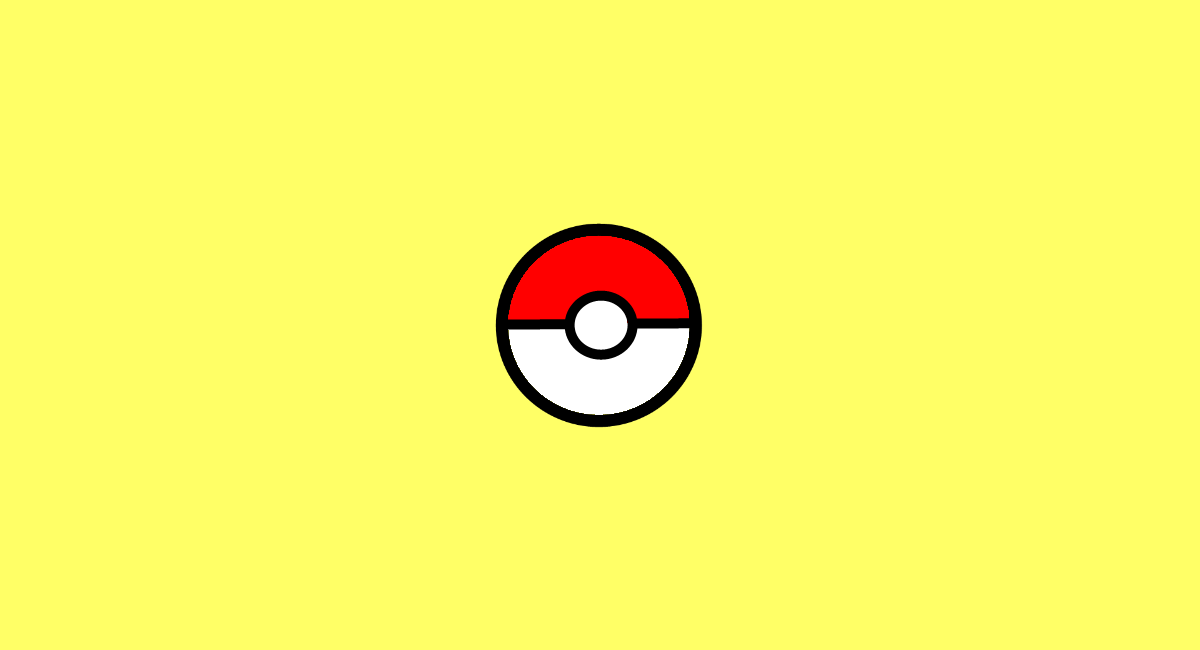
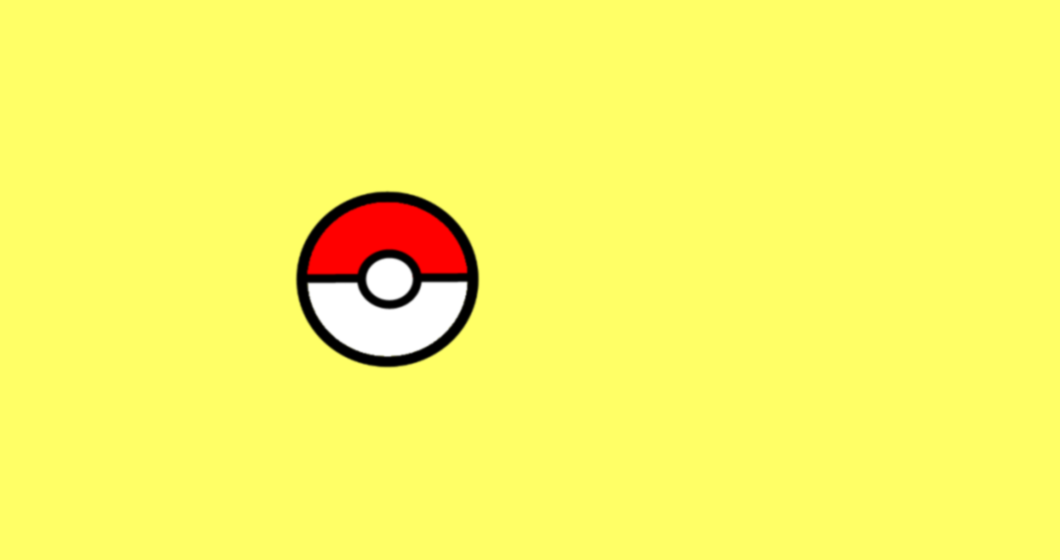
Gui changes

Changed region(s): [[0.2802, 0.3339, 0.5915, 0.6679]]

diff --git a/Gui.py b/Gui.py
@@ -17,7 +17,7 @@ import random
 # A drawable panel that contains the Playing Area
 class GamePanel(wx.ScrolledWindow):
 	def __init__(self, parent, id, size=wx.DefaultSize):
-		wx.ScrolledWindow.__init__(self, parent, id, (0, 0), size=(1200, 650), style=wx.SUNKEN_BORDER)
+		wx.ScrolledWindow.__init__(self, parent, id, (0, 0), size=(1033, 560), style=wx.SUNKEN_BORDER)
 		self.SetDoubleBuffered(True)
 
 		self.hitradius = 5			# How many pixels you can be "off" when trying to click on something
@@ -52,7 +52,7 @@ class GamePanel(wx.ScrolledWindow):
 	def setImage(self, card):
 		name = card.name.replace(' ', '').replace('.', '')
 		image = wx.Image('images/Pokecards/' + name + '.jpg', wx.BITMAP_TYPE_ANY)
-		image = image.Scale(122, 175, wx.IMAGE_QUALITY_HIGH)
+		image = image.Scale(116, 165, wx.IMAGE_QUALITY_HIGH)
 		card.bitmap = image.ConvertToBitmap()
 
 	# Sets the bitmap for the backside of a pokemon card
@@ -92,14 +92,14 @@ class GamePanel(wx.ScrolledWindow):
 
 		# Right click is currently only used for testing purposes
 		elif event.RightDown():
-			#x,y = self.ConvertEventCoords(event)
-			#l = self.pdc.FindObjects(x, y, self.hitradius)
-			#if l:
-			#	self.pdc.SetIdGreyedOut(l[0], not self.pdc.GetIdGreyedOut(l[0]))
-			#	r = self.pdc.GetIdBounds(l[0])
-			#	r.Inflate(4, 4)
-			#	self.OffsetRect(r)
-			#	self.RefreshRect(r, False)
+			x,y = self.convertEventCoords(event)
+			l = self.pdc.FindObjects(x, y, self.hitradius)
+			if l:
+				self.pdc.SetIdGreyedOut(l[0], not self.pdc.GetIdGreyedOut(l[0]))
+				r = self.pdc.GetIdBounds(l[0])
+				r.Inflate(4, 4)
+				self.offsetRect(r)
+				self.RefreshRect(r, False)
 			
 			dx,dy = 100, 100
 			if self.lastdragid != -1:
@@ -136,15 +136,15 @@ class GamePanel(wx.ScrolledWindow):
 				dx = event.GetX()
 				dy = event.GetY()
 
-				if self.dropArea(dx, dy) and self.lastdragid != self.dragid:
+				if self.inPlayerChosenArea(dx, dy) and self.lastdragid != self.dragid:
 					if self.lastdragid != -1:
-						tx = self.origpos[self.lastdragid][0] - 321
-						ty = self.origpos[self.lastdragid][1] - 236
+						tx = self.origpos[self.lastdragid][0] - 119
+						ty = self.origpos[self.lastdragid][1] - 195
 						self.moveItem(self.lastdragid, tx, ty)
-					x = self.startpos[0] - self.lastpos[0] - self.origpos[self.dragid][0] + 321
-					y = self.startpos[1] - self.lastpos[1] - self.origpos[self.dragid][1] + 236
+					x = self.startpos[0] - self.lastpos[0] - self.origpos[self.dragid][0] + 119
+					y = self.startpos[1] - self.lastpos[1] - self.origpos[self.dragid][1] + 195
 					self.GetParent().attackPanel.setLabels(self.cards[self.dragid])
-					self.GetParent().statusPanel.setPlayerPokemonInfo(self.cards[self.dragid])
+#					self.GetParent().statusPanel.setPlayerPokemonInfo(self.cards[self.dragid])
 					#self.chosenID = self.dragid
 					self.lastdragid = self.dragid
 				else:
@@ -183,8 +183,8 @@ class GamePanel(wx.ScrolledWindow):
 		while(loopCPU < 11):
 			time.sleep(0.01)
 			if forward:
-				dx = random.randint(1, 31) - 15
-				dy = random.randint(1, 31) - 15
+				dx = random.randint(1, 41) - 20
+				dy = random.randint(1, 21) - 10
 
 				self.anim.append([dx, dy])
 
@@ -202,8 +202,8 @@ class GamePanel(wx.ScrolledWindow):
 
 				loopCPU += 1
 
-	def dropArea(self, dx, dy):
-		return  (300 < dx and dx < 465) and (435 > dy and dy > 215)
+	def inPlayerChosenArea(self, dx, dy):
+		return  (110 < dx and dx < 245) and (376 > dy and dy > 182)
 
 	# Updates the playing area
 	def onPaint(self, event):
@@ -213,6 +213,13 @@ class GamePanel(wx.ScrolledWindow):
 		rgn = self.GetUpdateRegion()
 		r = rgn.GetBox()
 		self.pdc.DrawToDCClipped(dc, r)
+
+	def drawItem(self, dc, id, bitmap, x, y, w, h):
+		dc.DrawBitmap(bitmap, x, y, True)
+		dc.SetIdBounds(id, wx.Rect(x, y, w, h))
+		self.movable[id] = True
+		self.origpos[id] = [x, y]
+		self.objids.append(id)
 
 	# Draws the inital playing area
 	def doDrawing(self, dc, player, CPU):
@@ -224,12 +231,15 @@ class GamePanel(wx.ScrolledWindow):
 		dc.SetPen(pen)
 		dc.SetBrush(brush)
 
-		player1pokePanel = wx.Rect(190, 445, 805, 195)
-		player2pokePanel = wx.Rect(190, 5, 805, 195)
-		player1invPanel = wx.Rect(15, 70, 160, 570)
-		player2invPanel = wx.Rect(1010, 5, 160, 570)
-		player1chosenPanel = wx.Rect(300, 215, 165, 220)
-		player2chosenPanel = wx.Rect(730, 215, 165, 220)
+		player1pokePanel = wx.Rect(3, 380, 775, 175)
+		player2pokePanel = wx.Rect(3, 3, 775, 175)
+		player1invPanel = wx.Rect(782, 280, 135, 275)
+		player2invPanel = wx.Rect(782, 3, 135, 275)
+		player1chosenPanel = wx.Rect(110, 182, 135, 193)
+		player2chosenPanel = wx.Rect(535, 182, 135, 193)
+		inventoryDeckPanel = wx.Rect(922, 3, 135, 181)
+		cardDeckPanel = wx.Rect(922, 188, 135, 181)
+		graveyardPanel = wx.Rect(922, 373, 135, 181)
 		dc.DrawRoundedRectangleRect(player1pokePanel, 10)
 		dc.DrawRoundedRectangleRect(player1invPanel, 10)
 		dc.DrawRoundedRectangleRect(player1chosenPanel, 10)
@@ -238,60 +248,55 @@ class GamePanel(wx.ScrolledWindow):
 		dc.DrawRoundedRectangleRect(player2pokePanel, 10)
 		dc.DrawRoundedRectangleRect(player2invPanel, 10)
 		dc.DrawRoundedRectangleRect(player2chosenPanel, 10)
+		dc.DrawRoundedRectangleRect(inventoryDeckPanel, 10)
+		dc.DrawRoundedRectangleRect(cardDeckPanel, 10)
+		dc.DrawRoundedRectangleRect(graveyardPanel, 10)
+
+#		dc.EndDrawing()
 
 		w, h = player.deck.cards[0].bitmap.GetSize()
 		for i in range(0, 6):
 			id = wx.NewId()
 			dc.SetId(id)
-			x = 195 + i * 134
-			y = 452
-			dc.DrawBitmap(player.deck.cards[i].bitmap, x, y, True)
-			dc.SetIdBounds(id, wx.Rect(x, y, w, h))
+			x = 13 + i * 127
+			y = 384
 			self.movable[id] = True
-			self.origpos[id] = [x, y]
+			self.drawItem(dc, id, player.deck.cards[i].bitmap, x, y, w, h)
 			self.cards[id] = player.deck.cards[i]
-			self.objids.append(id)
 
+		dc.EndDrawing()
+'''
 		for i in range(1, 6):
 			id = wx.NewId()
 			dc.SetId(id)
 			x = 195 + i * 134
 			y = 15
-			dc.DrawBitmap(CPU.deck.cards[i].bitmap, x, y, True)
-			dc.SetIdBounds(id, wx.Rect(x, y, w, h))
 			self.movable[id] = False
-			self.origpos[id] = [x, y]
+			self.drawItem(dc, id, CPU.deck.cards[i].bitmap, x, y, w, h)
 			self.cards[id] = CPU.deck.cards[i]
-			self.objids.append(id)
 
 			# Draw the backside of a card over the CPU card 
 			id = id * 2
 			dc.SetId(id)
-			dc.DrawBitmap(self.backsideBmp, x, y, True)
-			dc.SetIdBounds(id, wx.Rect(x, y, w, h))
 			self.movable[id] = False
-			#self.origpos[id] = [x, y]
-			self.objids.append(id)
+			self.drawItem(dc, id, self.backsideBmp, x, y, w, h)
 
 		id = wx.NewId()
 		dc.SetId(id)
 		x = 750
 		y = 236
-		dc.DrawBitmap(CPU.deck.cards[0].bitmap, x, y, True)
-		dc.SetIdBounds(id, wx.Rect(x, y, w, h))
 		self.movable[id] = False
-		self.origpos[id] = [x, y]
 		self.cards[id] = CPU.deck.cards[0]
-		self.objids.append(id)
+		self.drawItem(dc, id, CPU.deck.cards[0].bitmap, x, y, w, h)
+'''
+#		self.GetParent().statusPanel.setCPUPokemonInfo(CPU.deck.cards[0])
 
-		self.GetParent().statusPanel.setCPUPokemonInfo(CPU.deck.cards[0])
-
-		dc.EndDrawing()
+#		dc.EndDrawing()
 
 # A panel that holds the names and HP of currently chosen pokemon
 class StatusPanel(wx.Panel):
 	def __init__(self, parent):
-		wx.Panel.__init__(self, parent, size=(1200, 80))
+		wx.Panel.__init__(self, parent, size=(1200, 30))
 
 		self.vbox = wx.BoxSizer(wx.VERTICAL)
 		self.vbox1 = wx.BoxSizer(wx.VERTICAL)
@@ -307,7 +312,7 @@ class StatusPanel(wx.Panel):
 		self.pokemon1name.SetForegroundColour('#CCCCCC')
 		self.pokemon1hp.SetForegroundColour('#CCCCCC')
 		self.vbox1.Add(self.pokemon1name, flag=wx.ALIGN_CENTER, border=10)
-		self.vbox1.Add(self.pokemon1hp, flag=wx.ALIGN_CENTER, border=10)
+#		self.vbox1.Add(self.pokemon1hp, flag=wx.ALIGN_CENTER, border=10)
 		self.hbox1.Add(self.vbox1, flag=wx.ALIGN_LEFT|wx.TOP, border=10)
 
 		self.hbox1.AddSpacer((630,0))
@@ -320,7 +325,7 @@ class StatusPanel(wx.Panel):
 		self.pokemon2name.SetForegroundColour('#CCCCCC')
 		self.pokemon2hp.SetForegroundColour('#CCCCCC')
 		self.vbox2.Add(self.pokemon2name, flag=wx.ALIGN_CENTER, border=10)
-		self.vbox2.Add(self.pokemon2hp, flag=wx.ALIGN_CENTER, border=10)
+#		self.vbox2.Add(self.pokemon2hp, flag=wx.ALIGN_CENTER, border=10)
 		self.hbox1.Add(self.vbox2, flag=wx.ALIGN_RIGHT|wx.TOP, border=10)
 
 		self.vbox.Add(self.hbox1, flag=wx.ALIGN_CENTER, border=10)
@@ -333,7 +338,7 @@ class StatusPanel(wx.Panel):
 	def setPlayerPokemonInfo(self, card):
 		self.Freeze()
 		self.pokemon1name.SetLabel(card.name)
-		self.pokemon1hp.SetLabel('HP: ' + str(card.health))
+#		self.pokemon1hp.SetLabel('HP: ' + str(card.health))
 		self.Layout()
 		self.Thaw()
 
@@ -442,25 +447,44 @@ class AttackPanel(wx.Panel):
 		self.attackButton3.Enable()
 		self.attackButton4.Enable()
 
+# Displays info
+class infoPanel(wx.Panel):
+	def __init__(self, parent):
+		wx.Panel.__init__(self, parent, size=(220, 725))
+
 class MainFrame(wx.Frame):
 	def __init__(self):
-		wx.Frame.__init__(self, None, title="Pokemon", size=(1200, 880))
+		wx.Frame.__init__(self, None, title="Pokemon", size=(1300, 725))
 		self.SetBackgroundColour('#435353')		
 		self.vbox = wx.BoxSizer(wx.VERTICAL)
 		self.hbox = wx.BoxSizer(wx.HORIZONTAL)
 
-		self.statusPanel = StatusPanel(self)
+		self.menuBar = wx.MenuBar()
+		self.infoPanel = infoPanel(self)
+#		self.statusPanel = StatusPanel(self)
 		self.gamePanel = GamePanel(self, wx.ID_ANY)
 		self.attackPanel = AttackPanel(self)
 
-		self.vbox.Add(self.statusPanel, 0, flag=wx.EXPAND)
+		self.fileMenu = wx.Menu()
+		m_exit = self.fileMenu.Append(wx.ID_EXIT, "&Exit\tAlt+X", "Close window and exit program.")
+		self.menuBar.Append(self.fileMenu, "&File")
+		self.Bind(wx.EVT_MENU, self.onQuit, m_exit)
+
+		self.SetMenuBar(self.menuBar)
+
+#		self.vbox.Add(self.statusPanel, 0, flag=wx.EXPAND)
 		self.vbox.Add(self.gamePanel, 0, flag=wx.EXPAND)
 		self.vbox.Add(self.attackPanel, 0, flag=wx.EXPAND)
+		self.hbox.Add(self.infoPanel, 0, flag=wx.EXPAND)
+		self.hbox.Add(self.vbox, 0, flag=wx.EXPAND)
 
 		self.SetAutoLayout(True)
-		self.SetSizer(self.vbox)
+		self.SetSizer(self.hbox)
 		self.Layout()
 		self.Centre()
+
+	def onQuit(self, event):
+		self.Close()
 
 #if __name__=="__main__":
 #    app = wx.App()

diff --git a/kapall2.py b/kapall2.py
@@ -9,7 +9,7 @@ from Main import *
 from Gui import *
 
 #-------------------
-# Attempt to hook the Gui up to the Gameplay
+# Beginning to attempt to hook the Gui up to the Gameplay
 #-------------------
 
 if __name__=="__main__":
